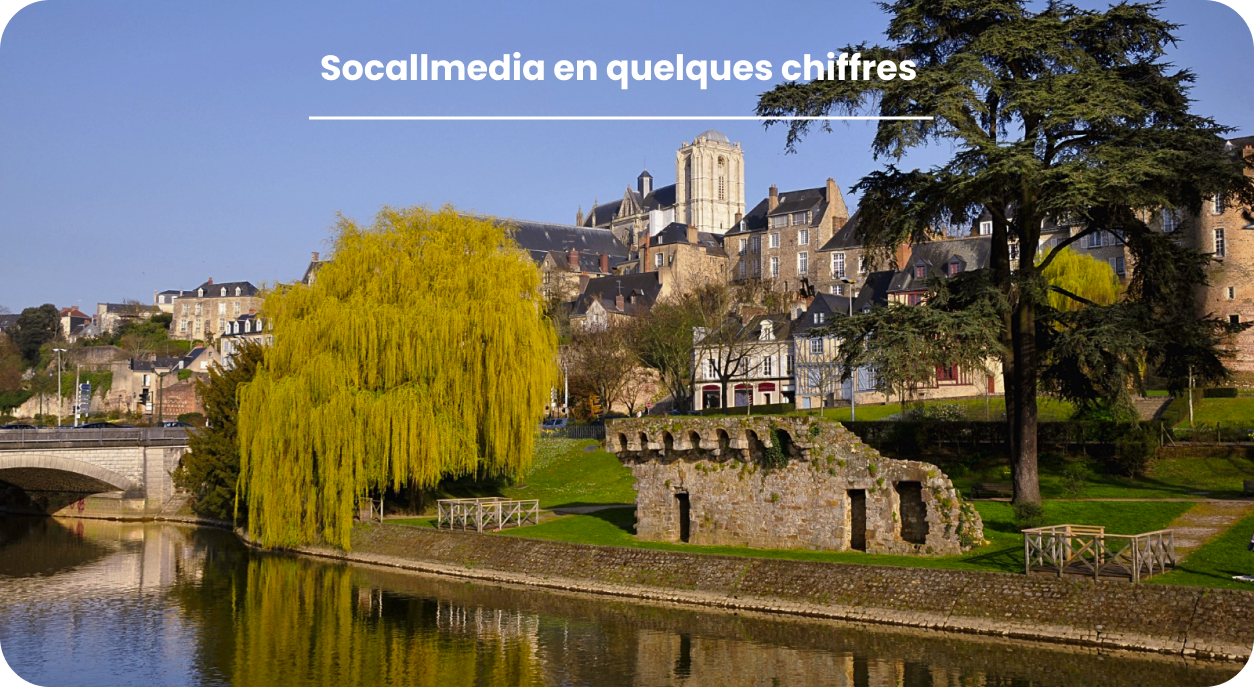
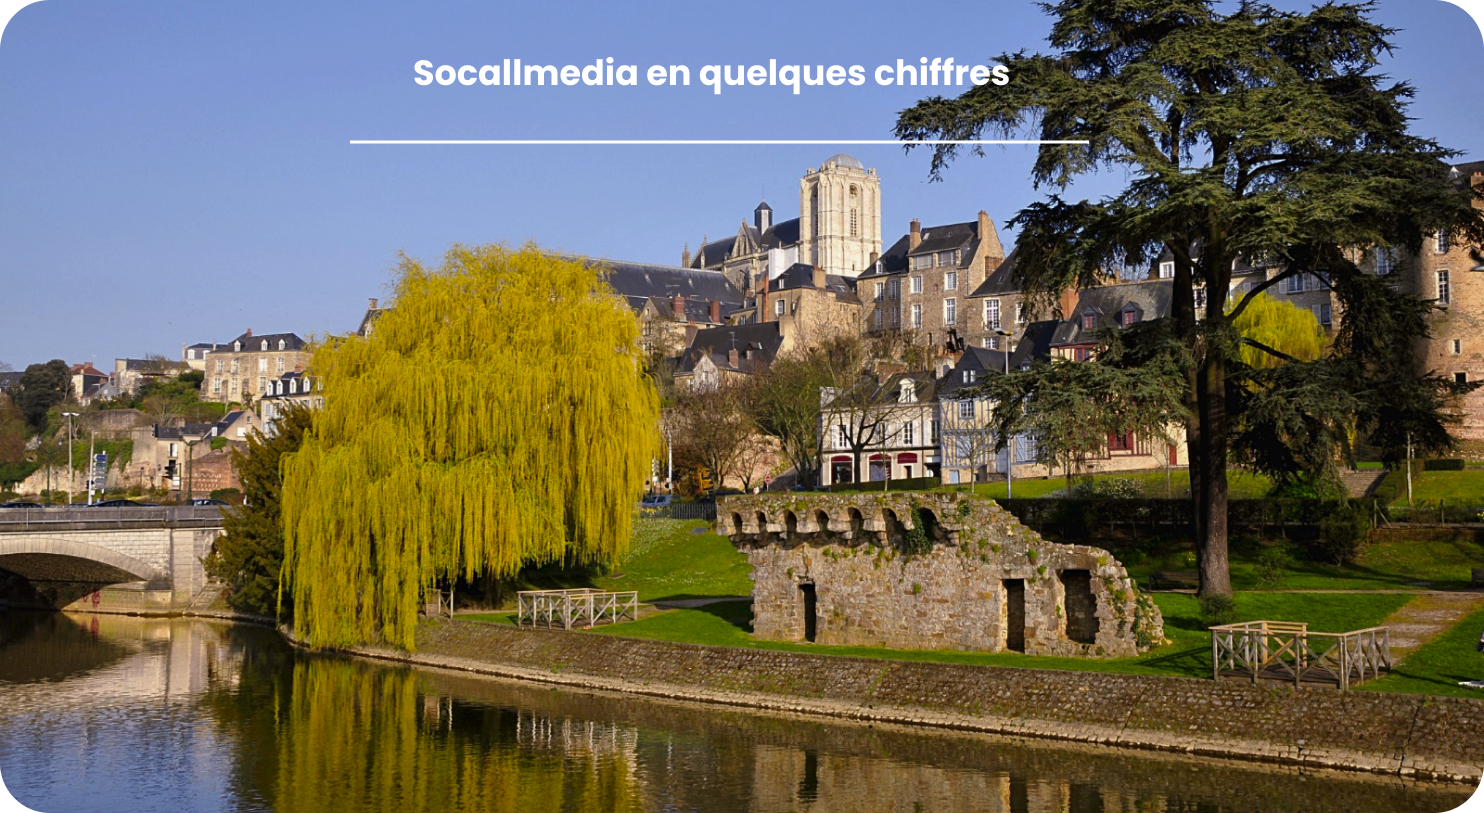
responsive

diff --git a/css/quiSommesNous.css b/css/quiSommesNous.css
@@ -8,10 +8,10 @@ html body {
 
 #imageHeader{
     width: 100%;
-    height: 550px;
+    height: 520px;
     background-image: url("/img/backgroundQuiSommesNous.png");
     background-repeat: no-repeat;
-    background-size: contain;
+    background-size: cover;
     background-position: center;
 }
 
@@ -66,12 +66,21 @@ html body {
 }
 
 #socallmediaChiffre{
-    width: 1000px;
+    width: 55%;
     height: 600px;
     background-image: url("/img/socallmediaChiffre.png");
     background-repeat: no-repeat;
     background-size: contain;
     margin: 0 auto;
+}
+
+#illustrationSofan{
+    width: 100%;
+    height: 560px;
+    background-image: url("/img/illustrationSofanMedia.png");
+    background-repeat: no-repeat;
+    background-size: contain;
+    background-position: center;
 }
 
 #titreSofanmedia{
@@ -155,10 +164,28 @@ html body {
 @media (max-width: 1280px) {
     #imageHeader{
         width: 100%;
-        height: 650px;
-        background-image: url("/img/backgroundLeadsMobile.png");
+        height: 700px;
+        background-image: url("/img/backgroundQuiSommesNousMobile.png");
+        background-repeat: no-repeat;
+        background-size: cover;
+        background-position: center;
+    }
+
+    #socallmediaChiffre{
+        width: 100%;
+        height: 400px;
+        background-image: url("/img/socallmediaChiffre.png");
         background-repeat: no-repeat;
         background-size: contain;
+        margin: 0 auto;
+    }
+
+    #illustrationSofan{
+        width: 100%;
+        height: 650px;
+        background-image: url("/img/backgroundQuiSommesNousSofanMobile.png");
+        background-repeat: no-repeat;
+        background-size: cover;
         background-position: center;
     }
 }

diff --git a/quiSommesNous.html b/quiSommesNous.html
@@ -23,8 +23,7 @@
   <h2>Socallmedia, qui sommes-nous ?</h2>
   <p>Lorem ipsum dolor sit amet. Et nihil velit eos recusandae dolores quo minima cumque. Sit veniam eaque et veniam voluptatem et sint obcaecati eos dolor voluptas. Et ipsam possimus ut animi error ea neque dolorem. Sit veniam eaque et veniam voluptatem et sint obcaecati eos dolor voluptas. Et ipsam possimus ut animi error ea neque dolorem.</p>
 </div>
-<div id="socallmediaChiffre"></div>
-<img src="img/illustrationSofanMedia.png" alt="illustrationSofanmedia">
+<div id="illustrationSofan"></div>
 <div id="titreSofanmedia"></div>
 <div id="containerTexteSofanmedia">
   <p>Lorem ipsum dolor sit amet. Et nihil velit eos recusandae dolores quo minima cumque. Sit veniam eaque et veniam voluptatem et sint obcaecati eos dolor voluptas. Et ipsam possimus ut animi error ea neque dolorem. Sit veniam eaque et veniam voluptatem et sint obcaecati eos dolor voluptas. Et ipsam possimus ut animi error ea neque dolorem.</p>
@@ -32,7 +31,7 @@
   <div id="boutonSofanmedia"></div>
 </div>
 
-<footer>
+<div class="footer">
   <img id="logoFooter" src="img/logoSocallmediaBlanc.png">
   <div id="containerReseau">
     <h1>Réseaux</h1>
@@ -43,6 +42,7 @@
     <div id="telephoneFooter"><strong>Téléphone:</strong> 02 43 54 90 60</div>
     <div id="localisationFooter"><strong>Localisation:</strong> Le Mans : 19 Bd Marie et Alexandre Oyon</div>
   </div>
-</footer>
+</div>
+<div id="mentionLegal">Copyright © 2022 Socallmedia | Mentions légales</div>
 </body>
 </html>

diff --git a/css/telemarketing.css b/css/telemarketing.css
@@ -15,14 +15,13 @@ html body {
     justify-content: space-between;
 }
 
-.header{
-    background-image: url("/img/headerBackground.svg");
+#imageHeader{
+    width: 100%;
+    height: 550px;
+    background-image: url("/img/illustrationTelemarketing.png");
     background-repeat: no-repeat;
     background-size: contain;
-    width: 100%;
-    height: 180px;
-    display: flex;
-    justify-content: space-between;
+    background-position: center;
 }
 
 #logoHeader{
